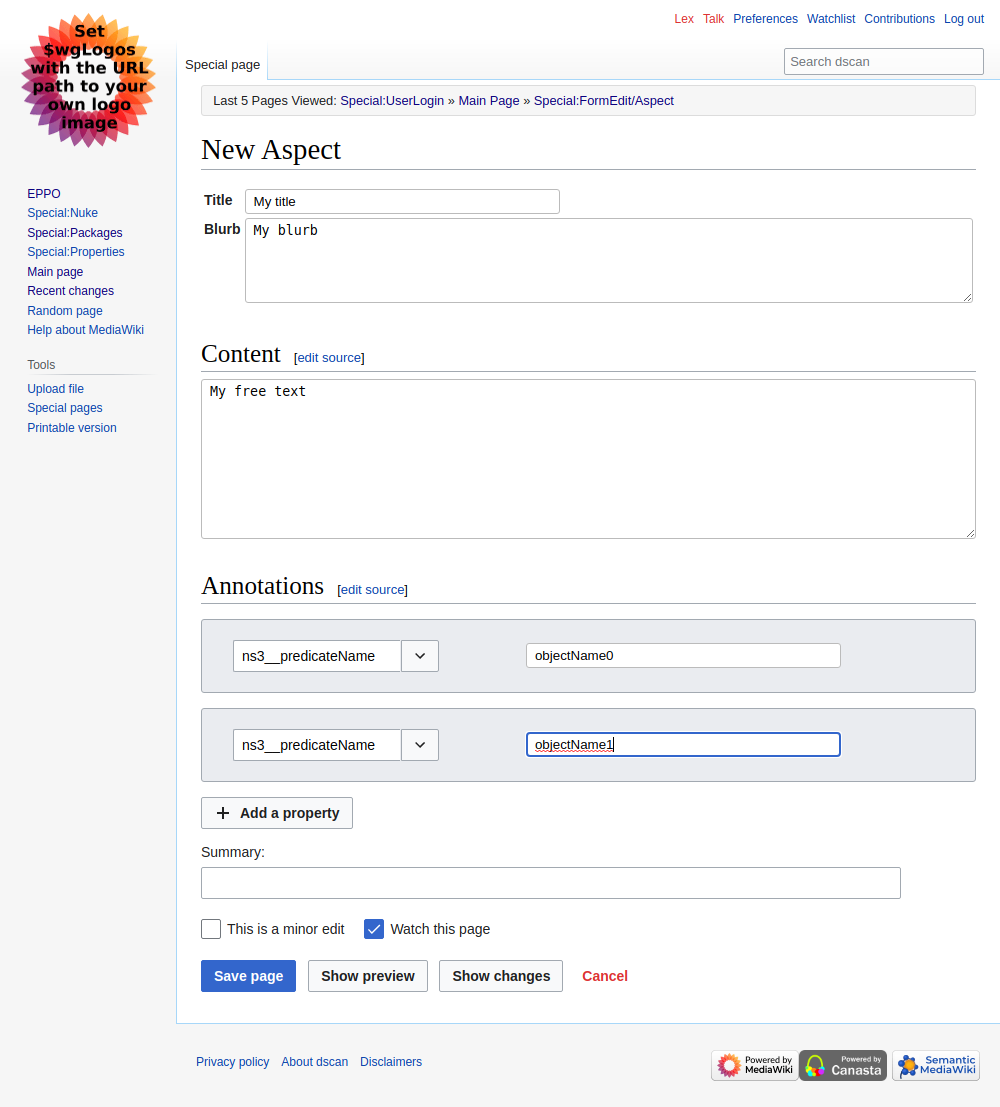
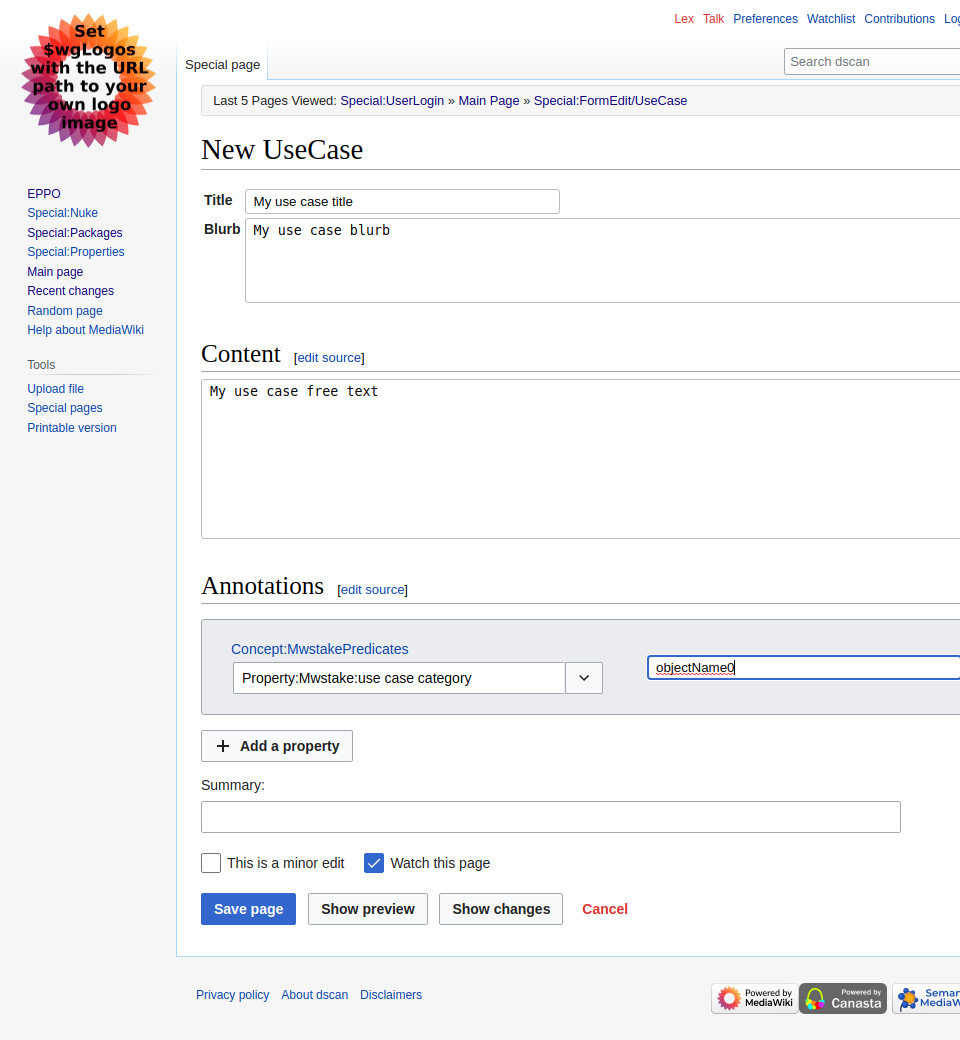
.

diff --git a/cypress/e2e/spec.cy.js b/cypress/e2e/spec.cy.js
@@ -6,21 +6,23 @@ describe("EPPO", () => {
     cy.get("h2").contains("All EPPO topic types");
   });
   it.only("allows a user to add an instance of a EPPO topic type", () => {
-    const predicateName = "ns3__predicateName";
     cy.mediawiki_login("lex", "globi2000globi");
     // Fill in form and save
-    cy.visit("/w/index.php?title=Special:FormEdit/Aspect");
-    cy.eppoForm_editTitle("My title");
-    cy.eppoForm_editBlurb("My blurb");
-    cy.eppoForm_editFreeText("My free text");
+    cy.visit("/w/index.php?title=Special:FormEdit/UseCase");
+    cy.eppoForm_editTitle("My use case title", "UseCase");
+    cy.eppoForm_editBlurb("My use case blurb", "UseCase");
+    cy.eppoForm_editFreeText("My use case free text");
     cy.screenshot("Fill-in-standard-properties-in-EPPO-form");
-    cy.eppoForm_addAProperty(predicateName, "objectName0");
-    cy.eppoForm_addAProperty(predicateName, "objectName1");
+    cy.eppoForm_addAProperty(
+      "Property:Mwstake:use case category",
+      "objectName0"
+    );
+    // cy.eppoForm_addAProperty(predicateName, "objectName1");
     cy.screenshot("Add-dynamic-properties-in-EPPO-form");
     cy.pageForm_savePage();
     cy.mediawiki_refresh();
     // View existing or initialize new property
-    cy.dataspects_initializeOrViewProperty(predicateName);
+    // cy.dataspects_initializeOrViewProperty(predicateName);
     cy.mediawiki_refresh();
   });
 

diff --git a/cypress/support/commands.js b/cypress/support/commands.js
@@ -62,11 +62,13 @@ Cypress.Commands.add("eppoForm_addAProperty", (predicate, object) => {
   cy.get("input[origname='Annotation[AnnotationObject]']").last().type(object);
 });
 
-Cypress.Commands.add("eppoForm_editTitle", (title) => {
-  cy.get("input[name='Aspect[eppo0:hasEntityTitle]']").type(title);
+Cypress.Commands.add("eppoForm_editTitle", (title, topicType) => {
+  cy.get("input[name='" + topicType + "[eppo0:hasEntityTitle]']").type(title);
 });
-Cypress.Commands.add("eppoForm_editBlurb", (blurb) => {
-  cy.get("textarea[name='Aspect[eppo0:hasEntityBlurb]']").type(blurb);
+Cypress.Commands.add("eppoForm_editBlurb", (blurb, topicType) => {
+  cy.get("textarea[name='" + topicType + "[eppo0:hasEntityBlurb]']").type(
+    blurb
+  );
 });
 Cypress.Commands.add("eppoForm_editFreeText", (freeText) => {
   cy.get("textarea[name='pf_free_text']").type(freeText);
